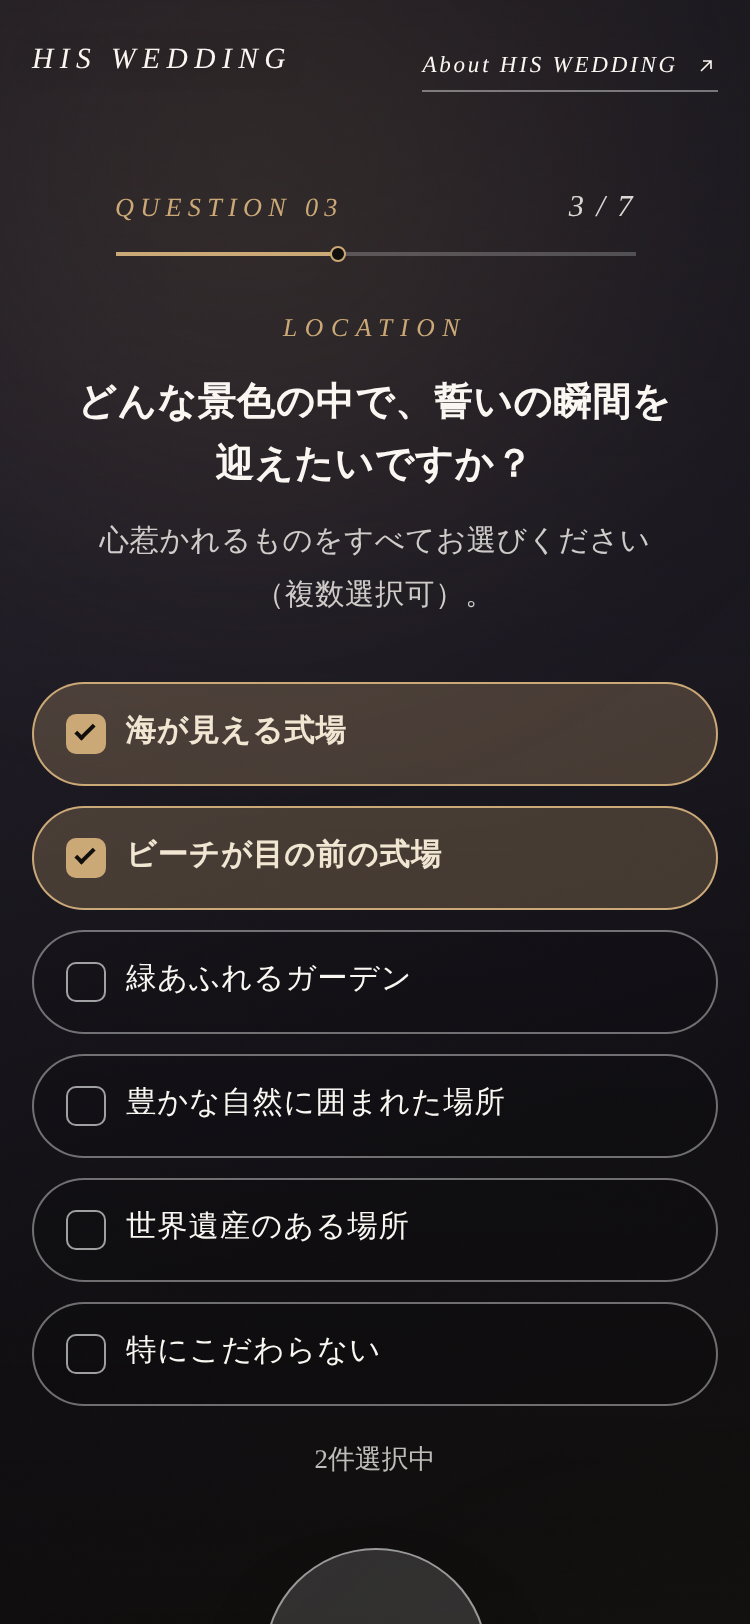
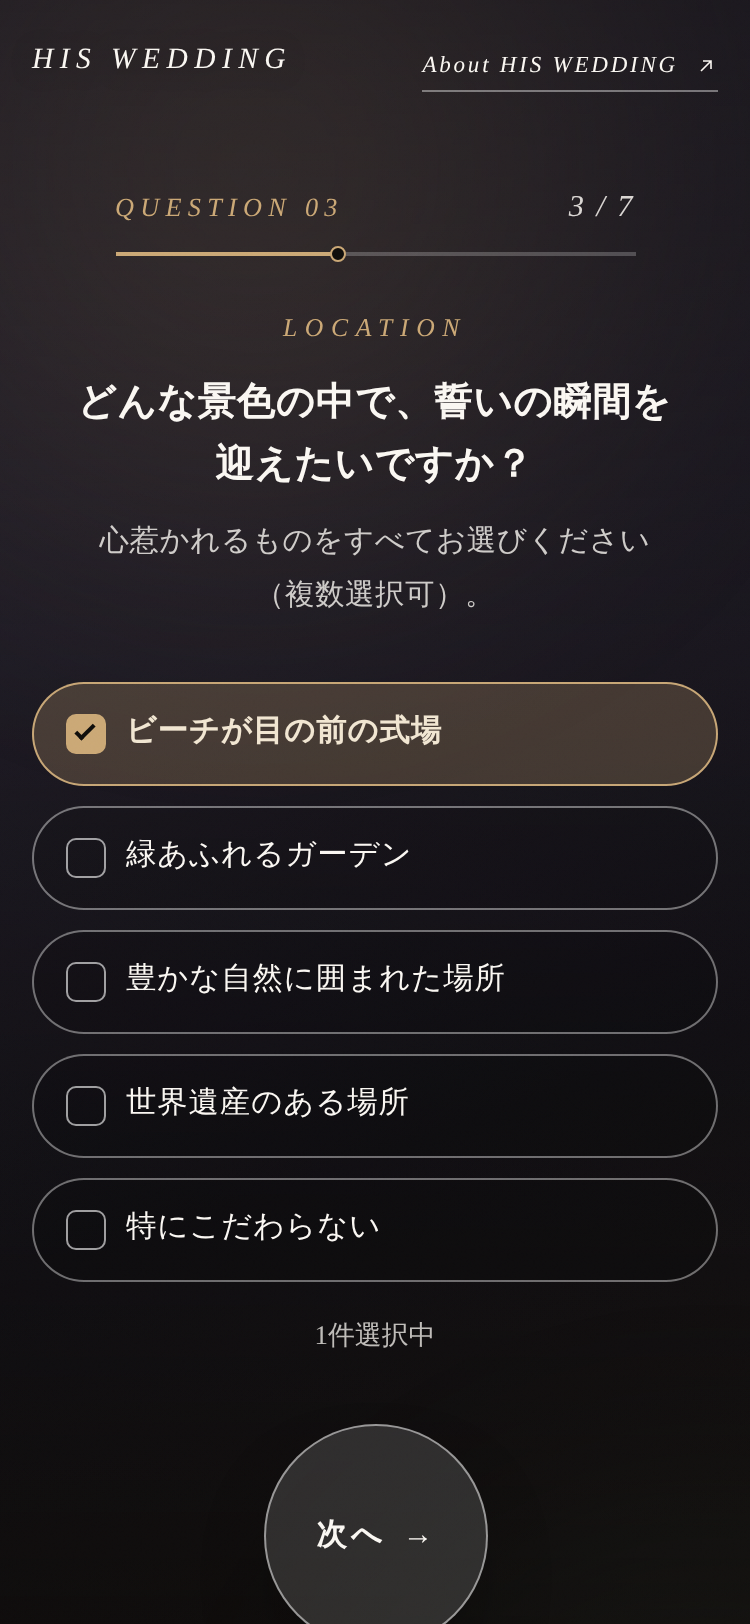
fix: 質問4に「海の見えるチャペル」を追加し、質問1の文言を修正
Claude-Session: https://claude.ai/code/session_01SJrvRhkiYrPykRNsSGEGYb

diff --git a/wedding-venue-diagnosis/dist/wedding-venue-diagnosis-mockup.html b/wedding-venue-diagnosis/dist/wedding-venue-diagnosis-mockup.html
@@ -1197,10 +1197,10 @@ a{color:inherit}
   root.VENUE_DIAG.QUESTIONS = [
     {
       id: 'kids', section: 'GUESTS', type: 'single',
-      title: 'お子さまと一緒に、結婚式を迎えますか？',
-      sub: 'お二人のお子さまや、ご親族のお子さまの参列予定をお聞かせください。',
+      title: '結婚式には、お子さまも参列されますか？',
+      sub: 'お二人のお子さまや、ご親族・ご友人のお子さまの参列予定をお聞かせください。',
       opts: [
-        { v: 'yes', main: 'はい、子どもも一緒です', sub: 'お子さまと一緒に過ごせる式場を探したい', categories: ['子供と一緒'], label: 'お子さまと一緒に過ごせること' },
+        { v: 'yes', main: 'はい、子どもも参列します', sub: 'お子さまと一緒に参加しやすい式場がいい', categories: ['子供と一緒'], label: 'お子さまと一緒に参加しやすいこと' },
         { v: 'no', main: 'いいえ、大人のみです', sub: 'お二人だけ、または大人のゲストのみ', categories: [] }
       ]
     },
@@ -1219,7 +1219,6 @@ a{color:inherit}
       title: 'どんな景色の中で、誓いの瞬間を迎えたいですか？',
       sub: '心惹かれるものをすべてお選びください（複数選択可）。',
       opts: [
-        { v: 'seaview', text: '海が見える式場', categories: ['海が見える'] },
         { v: 'beach', text: 'ビーチが目の前の式場', categories: ['ビーチが目の前'] },
         { v: 'garden', text: '緑あふれるガーデン', categories: ['ガーデンがある'] },
         { v: 'nature', text: '豊かな自然に囲まれた場所', categories: ['自然豊か'] },
@@ -1229,9 +1228,10 @@ a{color:inherit}
     },
     {
       id: 'space', section: 'CEREMONY', type: 'multi',
-      title: '挙式の空間は、どんな雰囲気に惹かれますか？',
+      title: '挙式を挙げる会場は、どんなところが理想ですか？',
       sub: '理想に近いものをすべてお選びください（複数選択可）。',
       opts: [
+        { v: 'seaview', text: '海の見えるチャペル', categories: ['海が見える'] },
         { v: 'church', text: '歴史ある教会・大聖堂', categories: ['教会・大聖堂'] },
         { v: 'glass', text: 'ステンドグラスのある空間', categories: ['ステンドグラスがある'] },
         { v: 'athome', text: 'アットホームな雰囲気', categories: ['アットホーム'] },

diff --git a/wedding-venue-diagnosis/js/data/questions.js b/wedding-venue-diagnosis/js/data/questions.js
@@ -10,10 +10,10 @@
   root.VENUE_DIAG.QUESTIONS = [
     {
       id: 'kids', section: 'GUESTS', type: 'single',
-      title: 'お子さまと一緒に、結婚式を迎えますか？',
-      sub: 'お二人のお子さまや、ご親族のお子さまの参列予定をお聞かせください。',
+      title: '結婚式には、お子さまも参列されますか？',
+      sub: 'お二人のお子さまや、ご親族・ご友人のお子さまの参列予定をお聞かせください。',
       opts: [
-        { v: 'yes', main: 'はい、子どもも一緒です', sub: 'お子さまと一緒に過ごせる式場を探したい', categories: ['子供と一緒'], label: 'お子さまと一緒に過ごせること' },
+        { v: 'yes', main: 'はい、子どもも参列します', sub: 'お子さまと一緒に参加しやすい式場がいい', categories: ['子供と一緒'], label: 'お子さまと一緒に参加しやすいこと' },
         { v: 'no', main: 'いいえ、大人のみです', sub: 'お二人だけ、または大人のゲストのみ', categories: [] }
       ]
     },
@@ -32,7 +32,6 @@
       title: 'どんな景色の中で、誓いの瞬間を迎えたいですか？',
       sub: '心惹かれるものをすべてお選びください（複数選択可）。',
       opts: [
-        { v: 'seaview', text: '海が見える式場', categories: ['海が見える'] },
         { v: 'beach', text: 'ビーチが目の前の式場', categories: ['ビーチが目の前'] },
         { v: 'garden', text: '緑あふれるガーデン', categories: ['ガーデンがある'] },
         { v: 'nature', text: '豊かな自然に囲まれた場所', categories: ['自然豊か'] },
@@ -42,9 +41,10 @@
     },
     {
       id: 'space', section: 'CEREMONY', type: 'multi',
-      title: '挙式の空間は、どんな雰囲気に惹かれますか？',
+      title: '挙式を挙げる会場は、どんなところが理想ですか？',
       sub: '理想に近いものをすべてお選びください（複数選択可）。',
       opts: [
+        { v: 'seaview', text: '海の見えるチャペル', categories: ['海が見える'] },
         { v: 'church', text: '歴史ある教会・大聖堂', categories: ['教会・大聖堂'] },
         { v: 'glass', text: 'ステンドグラスのある空間', categories: ['ステンドグラスがある'] },
         { v: 'athome', text: 'アットホームな雰囲気', categories: ['アットホーム'] },

diff --git a/wedding-venue-diagnosis/tests/e2e.test.js b/wedding-venue-diagnosis/tests/e2e.test.js
@@ -70,18 +70,18 @@ for (const file of TARGETS) {
       await page.click('#start-btn');
       assert.equal(await active(page), 'screen-q');
       assert.equal(await frac(page), '1 / 6');
-      await single(page, 'はい、子どもも一緒です');
+      await single(page, 'はい、子どもも参列します');
       assert.equal(await frac(page), '2 / 6');
       await single(page, '時差のない場所がいい');
       // 複数選択：未選択では次へ不可
       assert.equal(await page.isDisabled('#next-btn'), true);
-      await multi(page, ['海が見える式場', 'ビーチが目の前の式場']);
+      await multi(page, ['ビーチが目の前の式場']);
       assert.equal(await page.isDisabled('#next-btn'), false);
       // 重視条件の質問が追加され、全7問になる
       assert.equal(await frac(page), '3 / 7');
       await noOverflow(page, 'q3'); await shot('2-question-multi');
       await next(page);
-      await multi(page, ['特にこだわらない']);
+      await multi(page, ['海の見えるチャペル']);
       await next(page);
       await multi(page, ['挙式の後、同じ場所でパーティをしたい']);
       await next(page);
@@ -97,7 +97,7 @@ for (const file of TARGETS) {
       assert.equal(await page.locator('.cond-table tbody tr').count(), 6);
       assert.equal(await page.locator('.alt-card').count(), 4);
       const alts = await page.locator('.alt-card .alt-name').allTextContents();
-      const exp = await expected(page, { kids: 'yes', access: 'nojetlag', scenery: ['seaview', 'beach'], space: ['none'], stay: ['party'], focus: ['cost'], priority: 'ビーチが目の前' });
+      const exp = await expected(page, { kids: 'yes', access: 'nojetlag', scenery: ['beach'], space: ['seaview'], stay: ['party'], focus: ['cost'], priority: 'ビーチが目の前' });
       assert.deepEqual(alts, exp.slice(1, 5));
       assert.match(await page.textContent('#res-notice'), /同じ評価の式場が2件/);
       assert.match(await page.textContent('.reason'), /最も重視された「ビーチが目の前」に該当/);

diff --git a/wedding-venue-diagnosis/docs/DESIGN.md b/wedding-venue-diagnosis/docs/DESIGN.md
@@ -51,10 +51,10 @@
 
 | # | 質問 | 形式 | 選択肢 → Excel カテゴリ |
 |---|---|---|---|
-| 1 | お子さまと一緒に、結婚式を迎えますか？ | 単一 | はい → 子供と一緒 ／ いいえ → なし |
+| 1 | 結婚式には、お子さまも参列されますか？ | 単一 | はい、子どもも参列します → 子供と一緒 ／ いいえ、大人のみです → なし |
 | 2 | 式場までの移動について、ご希望はありますか？ | 単一 | 時差のない場所 → 時差がない ／ フライト時間が短い場所 → フライト時間が短い ／ 気にしない → なし |
-| 3 | どんな景色の中で、誓いの瞬間を迎えたいですか？ | 複数 | 海が見える式場 → 海が見える ／ ビーチが目の前の式場 → ビーチが目の前 ／ 緑あふれるガーデン → ガーデンがある ／ 豊かな自然に囲まれた場所 → 自然豊か ／ 世界遺産のある場所 → 世界遺産 ／ 特にこだわらない → なし |
-| 4 | 挙式の空間は、どんな雰囲気に惹かれますか？ | 複数 | 歴史ある教会・大聖堂 → 教会・大聖堂 ／ ステンドグラスのある空間 → ステンドグラスがある ／ アットホームな雰囲気 → アットホーム ／ 特にこだわらない → なし |
+| 3 | どんな景色の中で、誓いの瞬間を迎えたいですか？ | 複数 | ビーチが目の前の式場 → ビーチが目の前 ／ 緑あふれるガーデン → ガーデンがある ／ 豊かな自然に囲まれた場所 → 自然豊か ／ 世界遺産のある場所 → 世界遺産 ／ 特にこだわらない → なし |
+| 4 | 挙式を挙げる会場は、どんなところが理想ですか？ | 複数 | 海の見えるチャペル → 海が見える ／ 歴史ある教会・大聖堂 → 教会・大聖堂 ／ ステンドグラスのある空間 → ステンドグラスがある ／ アットホームな雰囲気 → アットホーム ／ 特にこだわらない → なし |
 | 5 | 滞在やパーティについて、叶えたいことはありますか？ | 複数 | 滞在するホテルの中で挙式 → ホテル内 ／ ヴィラ・水上ヴィラに泊まりたい → 水上ヴィラ又はヴィラ ／ 挙式の後、同じ場所でパーティ → パーティ会場併設 ／ 料理のおいしさを大切に → 食事がおいしい ／ 特にこだわらない → なし |
 | 6 | 結婚式で、ほかにこだわりたいことはありますか？ | 複数 | 写真 → 写真にこだわる ／ ドレス・衣裳 → 衣裳重視 ／ 費用を抑えたい → コスパ重視 ／ キャラクターと一緒 → キャラクターと一緒 ／ 特にこだわらない → なし |
 | 7 | 中でも、いちばん重視したい条件はどれですか？ | 単一（分岐） | 1〜6で選んだ条件が選択肢になる。「どれも同じくらい大切」も選べる。**選んだ条件が2つ以上のときだけ表示** |
